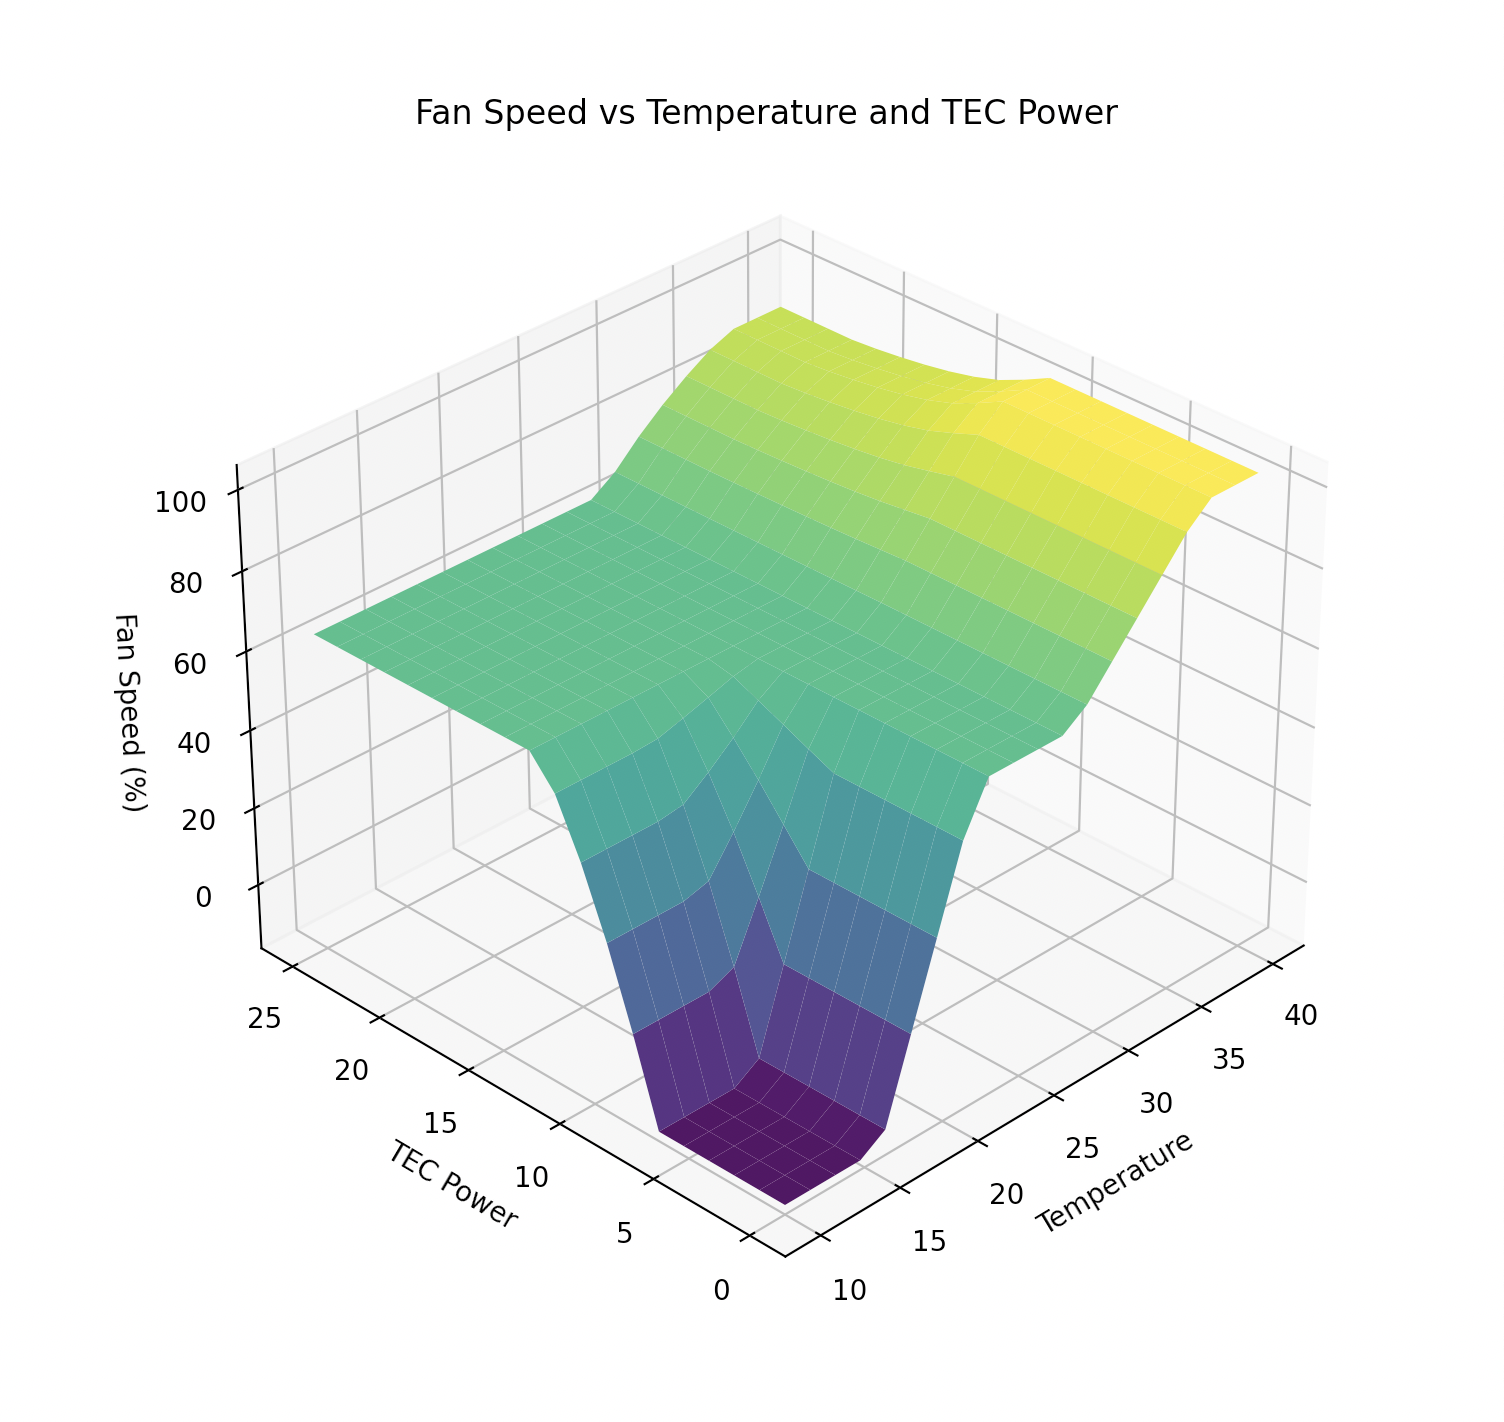
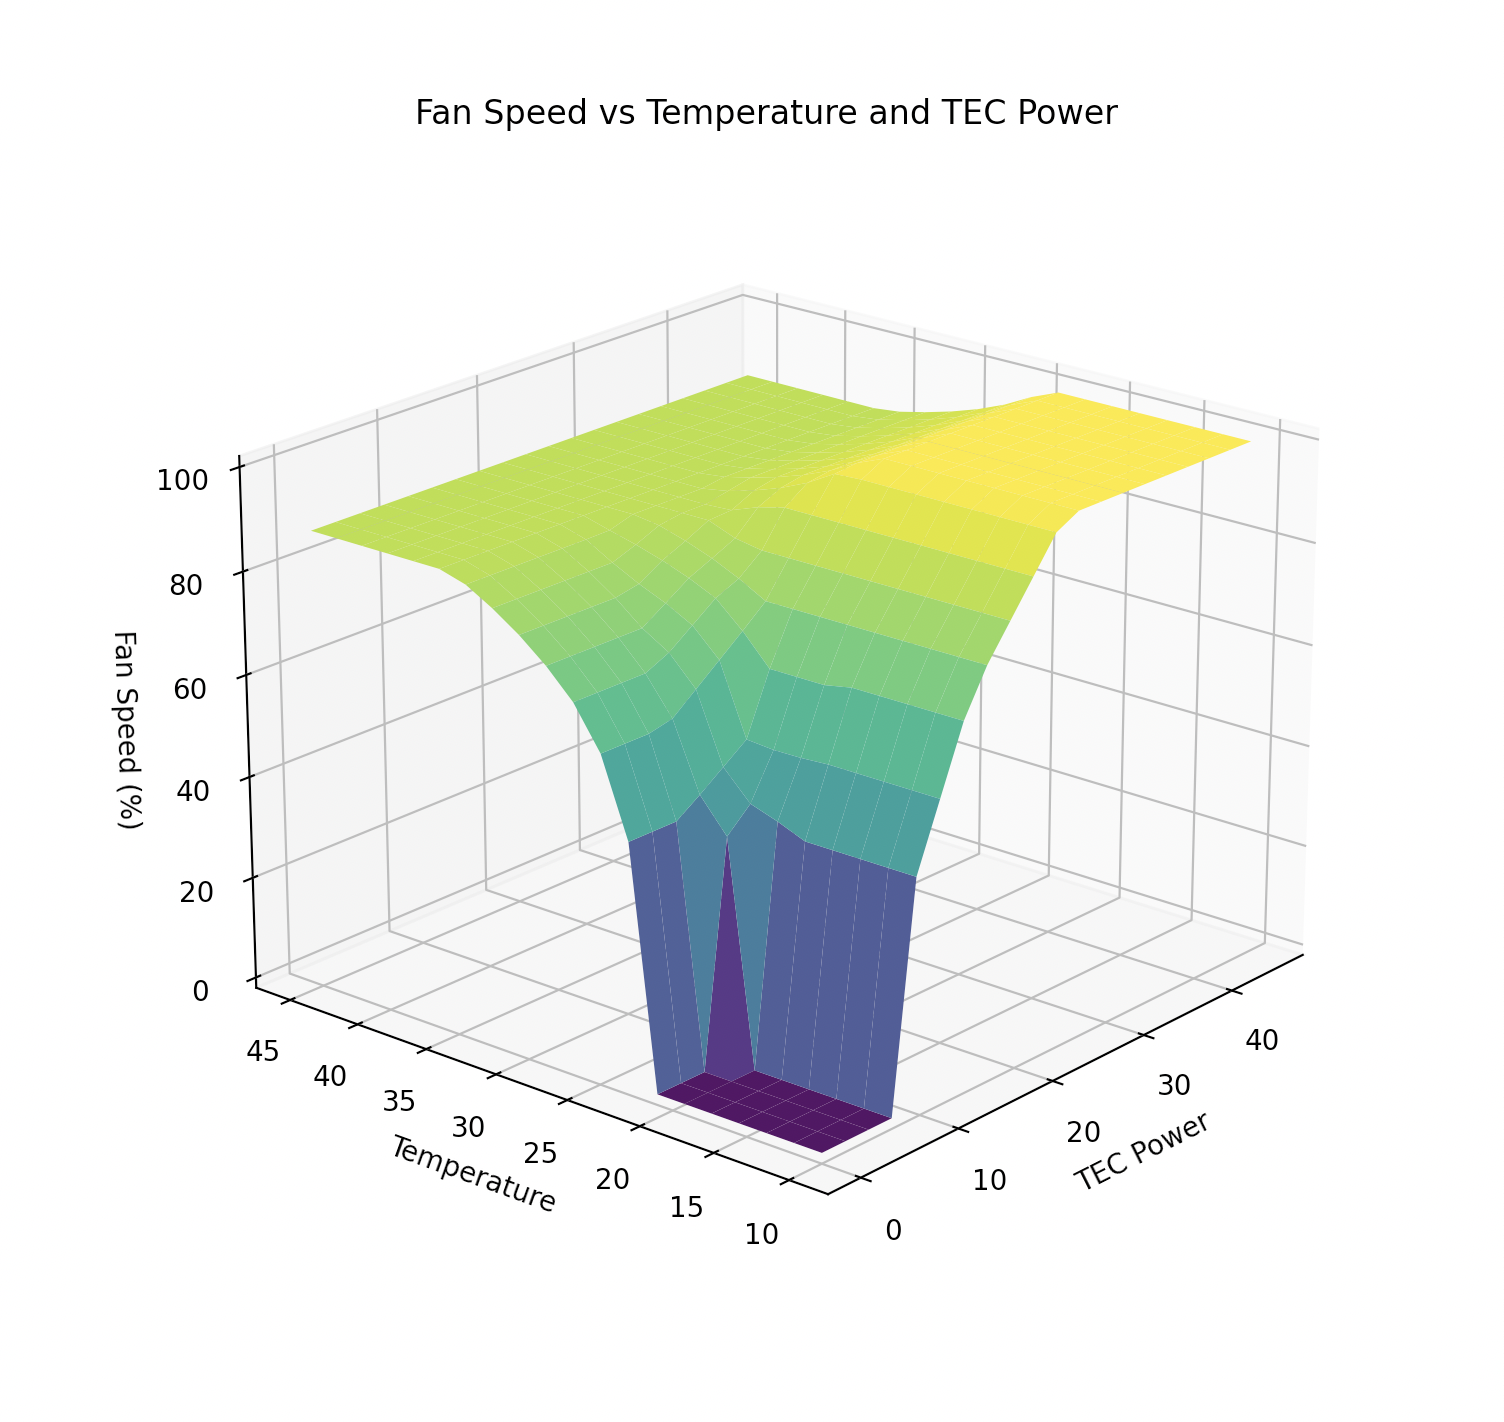
refactored rule engine

diff --git a/example/TecFanControl.c b/example/TecFanControl.c
@@ -28,6 +28,7 @@
 #include "inference.h"
 #include "membership_function.h"
 
+#include <math.h>
 #include <stdio.h>
 
 const char *lmhLabels[] = {"Low", "Medium", "High"};
@@ -72,9 +73,9 @@ const MembershipFunction tempChangeInputMembershipFunctions[] = {
 #define TEC_POWER_HIGH 2
 const MembershipFunction TECPowerInputMembershipFunctions[] = {
     // in Watts
-    {-5.0, -5.0, 5.0, 10.0, TRAPEZOIDAL},   // low TEC Power
-    {5.0, 10.0, 15.0, 22.0, TRAPEZOIDAL},   // medium TEC Power
-    {15.0, 22.0, 100.0, 100.0, TRAPEZOIDAL} // high Tec power
+    {-5.0, -5.0, 5.0, 15.0, TRAPEZOIDAL},   // low TEC Power
+    {5.0, 15.0, 15.0, 25.0, TRAPEZOIDAL},   // medium TEC Power
+    {15.0, 25.0, 100.0, 100.0, TRAPEZOIDAL} // high Tec power
 };
 
 #define FAN_STATE_OFF 0
@@ -92,66 +93,73 @@ const MembershipFunction fanInputMembershipFunctions[] = {
 const MembershipFunction fanSpeedMembershipFunctions[] = {
     // in PWM duty cycle percent
     {-20.0, 20.0, 0.0, .0, RECTANGULAR},     // fan off
-    {20.0, 20.0, 40.0, 50.0, TRAPEZOIDAL},   // fan low
-    {40.0, 50.0, 60.0, 70.0, TRAPEZOIDAL},   // fan medium
-    {60.0, 70.0, 100.0, 100.0, TRAPEZOIDAL}, // fan high
+    {20.0, 20.0, 40.0, 60.0, TRAPEZOIDAL},   // fan low
+    {30.0, 60.0, 60.0, 65.0, TRAPEZOIDAL},   // fan medium
+    {60.0, 65.0, 100.0, 100.0, TRAPEZOIDAL}, // fan high
 };
 
 FuzzyRule rules[] = {
     // If fan state is "off" and hot-side temperature is "medium" or "high" or
     // TEC heat load is "high", then fan speed is "high"
-    CREATE_FUZZY_RULE_2(&FanState, FAN_STATE_OFF, &TemperatureState,
-                        TEMPERATURE_MEDIUM, &FanSpeed, FAN_SPEED_FAST),
-    CREATE_FUZZY_RULE_2(&FanState, FAN_STATE_OFF, &TemperatureState,
-                        TEMPERATURE_HIGH, &FanSpeed, FAN_SPEED_FAST),
-    CREATE_FUZZY_RULE_2(&FanState, FAN_STATE_OFF, &TECPowerState,
-                        TEC_POWER_MEDIUM, &FanSpeed, FAN_SPEED_FAST),
-    CREATE_FUZZY_RULE_2(&FanState, FAN_STATE_OFF, &TECPowerState,
-                        TEC_POWER_HIGH, &FanSpeed, FAN_SPEED_FAST),
+    IF(ANTECEDENTS(VAR(&FanState, FAN_STATE_OFF), AND,
+                   VAR(&TemperatureState, TEMPERATURE_MEDIUM), OR,
+                   VAR(&TemperatureState, TEMPERATURE_HIGH)),
+       THEN(&FanSpeed, FAN_SPEED_FAST)),
 
+    IF(ANTECEDENTS(VAR(&FanState, FAN_STATE_OFF), AND,
+                   VAR(&TECPowerState, TEC_POWER_MEDIUM), OR,
+                   VAR(&TECPowerState, TEC_POWER_HIGH)),
+       THEN(&FanSpeed, FAN_SPEED_FAST)),
     // if the fan is off and temperature is low and stable or decreasing then
     // keep the fan off
-    CREATE_FUZZY_RULE_3(&FanState, FAN_STATE_OFF, &TemperatureState,
-                        TEMPERATURE_LOW, &TempChangeState, TEMP_CHANGE_STABLE,
-                        &FanSpeed, FAN_SPEED_OFF),
-    CREATE_FUZZY_RULE_3(&FanState, FAN_STATE_OFF, &TemperatureState,
-                        TEMPERATURE_LOW, &TempChangeState,
-                        TEMP_CHANGE_DECREASING, &FanSpeed, FAN_SPEED_OFF),
+    IF(ANTECEDENTS(VAR(&FanState, FAN_STATE_OFF), AND,
+                   VAR(&TemperatureState, TEMPERATURE_LOW), AND,
+                   VAR(&TempChangeState, TEMP_CHANGE_STABLE), OR,
+                   VAR(&TempChangeState, TEMP_CHANGE_DECREASING)),
+       THEN(&FanSpeed, FAN_SPEED_OFF)),
 
     // if the fan is on, and TEC power is "low", and temperature isn't low then
     // fan speed is low
-    CREATE_FUZZY_RULE_3(&FanState, FAN_STATE_ON, &TECPowerState, TEC_POWER_LOW,
-                        &TemperatureState, TEMPERATURE_MEDIUM, &FanSpeed,
-                        FAN_SPEED_MEDIUM),
-    CREATE_FUZZY_RULE_3(&FanState, FAN_STATE_ON, &TECPowerState, TEC_POWER_LOW,
-                        &TemperatureState, TEMPERATURE_HIGH, &FanSpeed,
-                        FAN_SPEED_MEDIUM),
+    IF(ANTECEDENTS(VAR(&FanState, FAN_STATE_ON), AND,
+                   VAR(&TECPowerState, TEC_POWER_LOW), AND,
+                   VAR(&TemperatureState, TEMPERATURE_MEDIUM)),
+       THEN(&FanSpeed, FAN_SPEED_SLOW)),
 
     // if the fan is on, and TEC power is "low" and temperature is "low", then
     // fan is off
-    CREATE_FUZZY_RULE_3(&FanState, FAN_STATE_ON, &TECPowerState, TEC_POWER_LOW,
-                        &TemperatureState, TEMPERATURE_LOW, &FanSpeed,
-                        FAN_SPEED_OFF),
+    IF(ANTECEDENTS(VAR(&FanState, FAN_STATE_ON), AND,
+                   VAR(&TECPowerState, TEC_POWER_LOW), AND,
+                   VAR(&TemperatureState, TEMPERATURE_LOW)),
+       THEN(&FanSpeed, FAN_SPEED_OFF)),
 
     // if the fan is on, and TEC power is "medium", then fan speed is medium
-    CREATE_FUZZY_RULE_2(&FanState, FAN_STATE_ON, &TECPowerState,
-                        TEC_POWER_MEDIUM, &FanSpeed, FAN_SPEED_MEDIUM),
+    IF(ANTECEDENTS(VAR(&FanState, FAN_STATE_ON), AND,
+                   VAR(&TECPowerState, TEC_POWER_MEDIUM)),
+       THEN(&FanSpeed, FAN_SPEED_MEDIUM)),
+
     // if the fan is on, and TEC power is "medium" and temperature is
     // decreasing, then fan speed is low
-    CREATE_FUZZY_RULE_3(&FanState, FAN_STATE_ON, &TECPowerState,
-                        TEC_POWER_MEDIUM, &TempChangeState,
-                        TEMP_CHANGE_DECREASING, &FanSpeed, FAN_SPEED_SLOW),
+    IF(ANTECEDENTS(VAR(&FanState, FAN_STATE_ON), AND,
+                   VAR(&TECPowerState, TEC_POWER_MEDIUM), AND,
+                   VAR(&TempChangeState, TEMP_CHANGE_DECREASING)),
+       THEN(&FanSpeed, FAN_SPEED_SLOW)),
+
     // if the fan is on, and TEC power is "high", then fan speed is high
-    CREATE_FUZZY_RULE_2(&FanState, FAN_STATE_ON, &TECPowerState, TEC_POWER_HIGH,
-                        &FanSpeed, FAN_SPEED_FAST),
+    IF(ANTECEDENTS(VAR(&FanState, FAN_STATE_ON), AND,
+                   VAR(&TECPowerState, TEC_POWER_HIGH)),
+       THEN(&FanSpeed, FAN_SPEED_FAST)),
+
     // if the fan is on, and temperature is "high", then fan is medium
-    CREATE_FUZZY_RULE_2(&FanState, FAN_STATE_ON, &TemperatureState,
-                        TEMPERATURE_HIGH, &FanSpeed, FAN_SPEED_MEDIUM),
+    IF(ANTECEDENTS(VAR(&FanState, FAN_STATE_ON), AND,
+                   VAR(&TemperatureState, TEMPERATURE_HIGH)),
+       THEN(&FanSpeed, FAN_SPEED_MEDIUM)),
+
     // if the fan is on, and TEC power is "high" and temperature is "high", then
     // fan is high
-    CREATE_FUZZY_RULE_3(&FanState, FAN_STATE_ON, &TemperatureState,
-                        TEMPERATURE_HIGH, &TECPowerState, TEC_POWER_HIGH,
-                        &FanSpeed, FAN_SPEED_FAST),
+    IF(ANTECEDENTS(VAR(&FanState, FAN_STATE_ON), AND,
+                   VAR(&TemperatureState, TEMPERATURE_HIGH), AND,
+                   VAR(&TECPowerState, TEC_POWER_HIGH)),
+       THEN(&FanSpeed, FAN_SPEED_FAST)),
 };
 
 void createClassifiers() {
@@ -185,10 +193,13 @@ void destroyClassifiers() {
 double map_range(double value, double in_min, double in_max, double out_min,
                  double out_max) {
     // linear map helper function
-    return (value - in_min) * (out_max - out_min) / (in_max - in_min) + out_min;
+    double mapped =
+        (value - in_min) * (out_max - out_min) / (in_max - in_min) + out_min;
+    return fmin(fmax(mapped, out_min), out_max);
 }
 
 int main(int argc, char *argv[]) {
+
     // Check if the correct number of command line arguments are provided
     if (argc != 5) {
         printf("Usage: %s <currentTemperature> <currentTemperatureChange> "
@@ -233,11 +244,17 @@ int main(int argc, char *argv[]) {
 
     // Defuzzify the output
     double fanSpeed = defuzzification(&FanSpeed, &fanSpeedClassifier);
-    // extreme points (0, 100) can't be reached due to the centroid calculation
-    fanSpeed = map_range(fanSpeed, 10.0, 80.0, 0.0, 100.0),
+    if (fanSpeed <= 20.0) {
+        // fan won't run below 20, so it's effectively off
+        fanSpeed = 0.0;
+    } else {
+        // extreme points (0, 100) can't be reached due to the centroid
+        // calculation
+        fanSpeed = map_range(fanSpeed, 10.0, 80.0, 30.0, 100.0);
+    }
 
     // Print the result
-        printf("Fan Speed: %.04f %%\n", fanSpeed);
+    printf("Fan Speed: %.04f %%\n", fanSpeed);
 
     // Cleanup memory
     destroyClassifiers();

diff --git a/src/inference.c b/src/inference.c
@@ -31,31 +31,74 @@
  * @param numRules The number of fuzzy rules in the array.
  */
 void fuzzyInference(const FuzzyRule *rules, int numRules) {
-    // Initialize the output memberships to 0 for each rule
+    // Initialize the output memberships of the consequent to 0
     for (int i = 0; i < numRules; i++) {
-        const FuzzyRule *rule = &rules[i];
-        rule->output->memberships[rule->outputIndex] = 0;
+        rules[i].consequent.variable->memberships[rules[i].consequent.value] =
+            0.0;
     }
 
     // Iterate over each rule
     for (int i = 0; i < numRules; i++) {
         const FuzzyRule *rule = &rules[i];
 
-        // Calculate the minimum membership of the inputs
-        double minMembership = 1.0;
+        // Calculate the membership of the inputs
+        double membership = 1.0;
+        double orMembership = 0.0;
+        bool isOrOperator = false;
 
-        for (int j = 0; j < rule->numInputs; j++) {
-            double membership =
-                rule->inputs[j]->memberships[rule->inputIndices[j]];
-            minMembership = minMembership * membership;
+        for (int j = 0; j < rule->num_antecedents; j++) {
+            printf("Processing antecedent %d of rule %d...\n", j, i);
+            FuzzyAntecedent *antecedent = &rule->antecedents[j];
+
+            if (j % 2 == 0) {
+                // This is a variable
+                printf("Variable: %p, value: %d\n",
+                       antecedent->variable.variable,
+                       antecedent->variable.value);
+                double inputMembership =
+                    antecedent->variable.variable
+                        ->memberships[antecedent->variable.value];
+
+                printf("Membership: %f\n", inputMembership);
+                if (isOrOperator) {
+                    orMembership = fmax(orMembership, inputMembership);
+                } else {
+                    membership = fmin(membership, inputMembership);
+                }
+            } else {
+                // This is an operator
+                printf("Operator: %d\n", antecedent->operator);
+                if (antecedent->operator== FUZZY_OR) {
+                    // Use OR operation
+                    isOrOperator = true;
+                } else {
+                    isOrOperator = false;
+                    if (orMembership > 0.0) {
+                        membership = fmax(membership, orMembership);
+                    }
+                    orMembership = 0.0;
+                }
+            }
         }
 
-        rule->output->memberships[rule->outputIndex] += minMembership;
+        // Apply the final membership to the output
+        if (orMembership > 0.0) {
+            membership = fmax(membership, orMembership);
+        }
+
+        // add the membership to the output
+        printf("Output variable: %p, value: %d\n", rule->consequent.variable,
+               rule->consequent.value);
+        rule->consequent.variable->memberships[rule->consequent.value] =
+            fmax(rule->consequent.variable->memberships[rule->consequent.value],
+                 membership);
+        printf("Membership: %f\n",
+               rule->consequent.variable->memberships[rule->consequent.value]);
     }
 
-    // Normalize the output memberships
+    // Normalize the output membership
     for (int i = 0; i < numRules; i++) {
-        const FuzzyRule *rule = &rules[i];
-        normalizeClass(rule->output);
+        printf("Normalizing rule %d...\n", i);
+        normalizeClass(rules[i].consequent.variable);
     }
 }

diff --git a/inc/inference.h b/inc/inference.h
@@ -17,36 +17,44 @@
 #include "classifier.h"
 #include "membership_function.h"
 
-#define CREATE_FUZZY_RULE_1(input1, input1_index, output_class, output_index)  \
-    (FuzzyRule) {                                                              \
-        .inputs = (FuzzyClass *[]){input1},                                    \
-        .inputIndices = (int[]){input1_index}, .numInputs = 1,                 \
-        .output = output_class, .outputIndex = output_index                    \
-    }
-
-#define CREATE_FUZZY_RULE_2(input1, input1_index, input2, input2_index,        \
-                            output_class, output_index)                        \
-    (FuzzyRule) {                                                              \
-        .inputs = (FuzzyClass *[]){input1, input2},                            \
-        .inputIndices = (int[]){input1_index, input2_index}, .numInputs = 2,   \
-        .output = output_class, .outputIndex = output_index                    \
-    }
-
-#define CREATE_FUZZY_RULE_3(input1, input1_index, input2, input2_index,        \
-                            input3, input3_index, output_class, output_index)  \
-    (FuzzyRule) {                                                              \
-        .inputs = (FuzzyClass *[]){input1, input2, input3},                    \
-        .inputIndices = (int[]){input1_index, input2_index, input3_index},     \
-        .numInputs = 3, .output = output_class, .outputIndex = output_index    \
-    }
-
+// Define a type for a fuzzy variable
 typedef struct {
-    FuzzyClass **inputs; // Array of input fuzzy classes
-    int *inputIndices;   // Array of input indices
-    int numInputs;
-    FuzzyClass *output; // Output fuzzy class
-    int outputIndex;    // Output index
+    FuzzyClass *variable;
+    int value;
+} FuzzyVariable;
+
+// Define a type for a fuzzy antecedent
+typedef enum { FUZZY_AND, FUZZY_OR } FuzzyOperator;
+
+typedef union {
+    FuzzyVariable variable;
+    FuzzyOperator operator;
+} FuzzyAntecedent;
+
+// Define a type for a fuzzy rule
+typedef struct {
+    FuzzyAntecedent *antecedents;
+    int num_antecedents;
+    FuzzyVariable consequent;
 } FuzzyRule;
+
+// Define macros to create fuzzy variables and antecedents
+#define VAR(_variable, _value)                                                 \
+    {                                                                          \
+        .variable = {.variable = _variable, .value = _value }                  \
+    }
+#define AND {.operator= FUZZY_AND}
+#define OR {.operator= FUZZY_OR}
+#define ANTECEDENTS(...)                                                       \
+    .antecedents = (FuzzyAntecedent[]){__VA_ARGS__},                           \
+    .num_antecedents =                                                         \
+        sizeof((FuzzyAntecedent[]){__VA_ARGS__}) / sizeof(FuzzyAntecedent)
+
+#define THEN(_variable, _value)                                                \
+    .consequent = (FuzzyVariable) { .variable = _variable, .value = _value }
+
+// Define a macro to create a fuzzy rule
+#define IF(A, B) {A, B}
 
 void fuzzyInference(const FuzzyRule *rules, int numRules);
 

diff --git a/example/plot.py b/example/plot.py
@@ -4,9 +4,9 @@ import matplotlib.pyplot as plt
 
 RESOLUTION = 20
 # Define the ranges for the input parameters
-TEMPERATURE_RANGE = np.linspace(10, 40, RESOLUTION)
-TEMPERATURE_CHANGE_RANGE = np.linspace(-5, 5, RESOLUTION)
-TEC_POWER_RANGE = np.linspace(0, 25, RESOLUTION)
+TEMPERATURE_RANGE = np.linspace(10, 45, RESOLUTION)
+TEMPERATURE_CHANGE_RANGE = np.linspace(-1, 1, RESOLUTION)
+TEC_POWER_RANGE = np.linspace(0, 45, RESOLUTION)
 FAN_RANGE = np.linspace(0, 100, RESOLUTION)
 
 # Create a figure with a 3D subplot
@@ -44,12 +44,12 @@ for i, temperature in enumerate(TEMPERATURE_RANGE):
 print("\nProgress: 100.00% - Completed")
 
 # Plot the results
-X, Y = np.meshgrid(TEMPERATURE_RANGE, TEC_POWER_RANGE)
+X, Y = np.meshgrid(TEC_POWER_RANGE, TEMPERATURE_RANGE)
 ax.plot_surface(X, Y, results, cmap='viridis', edgecolor='none')
 
 # Set the labels and title
-ax.set_xlabel('Temperature')
-ax.set_ylabel('TEC Power')
+ax.set_xlabel('TEC Power')
+ax.set_ylabel('Temperature')
 ax.set_zlabel('Fan Speed (%)')
 ax.set_title('Fan Speed vs Temperature and TEC Power')
 
